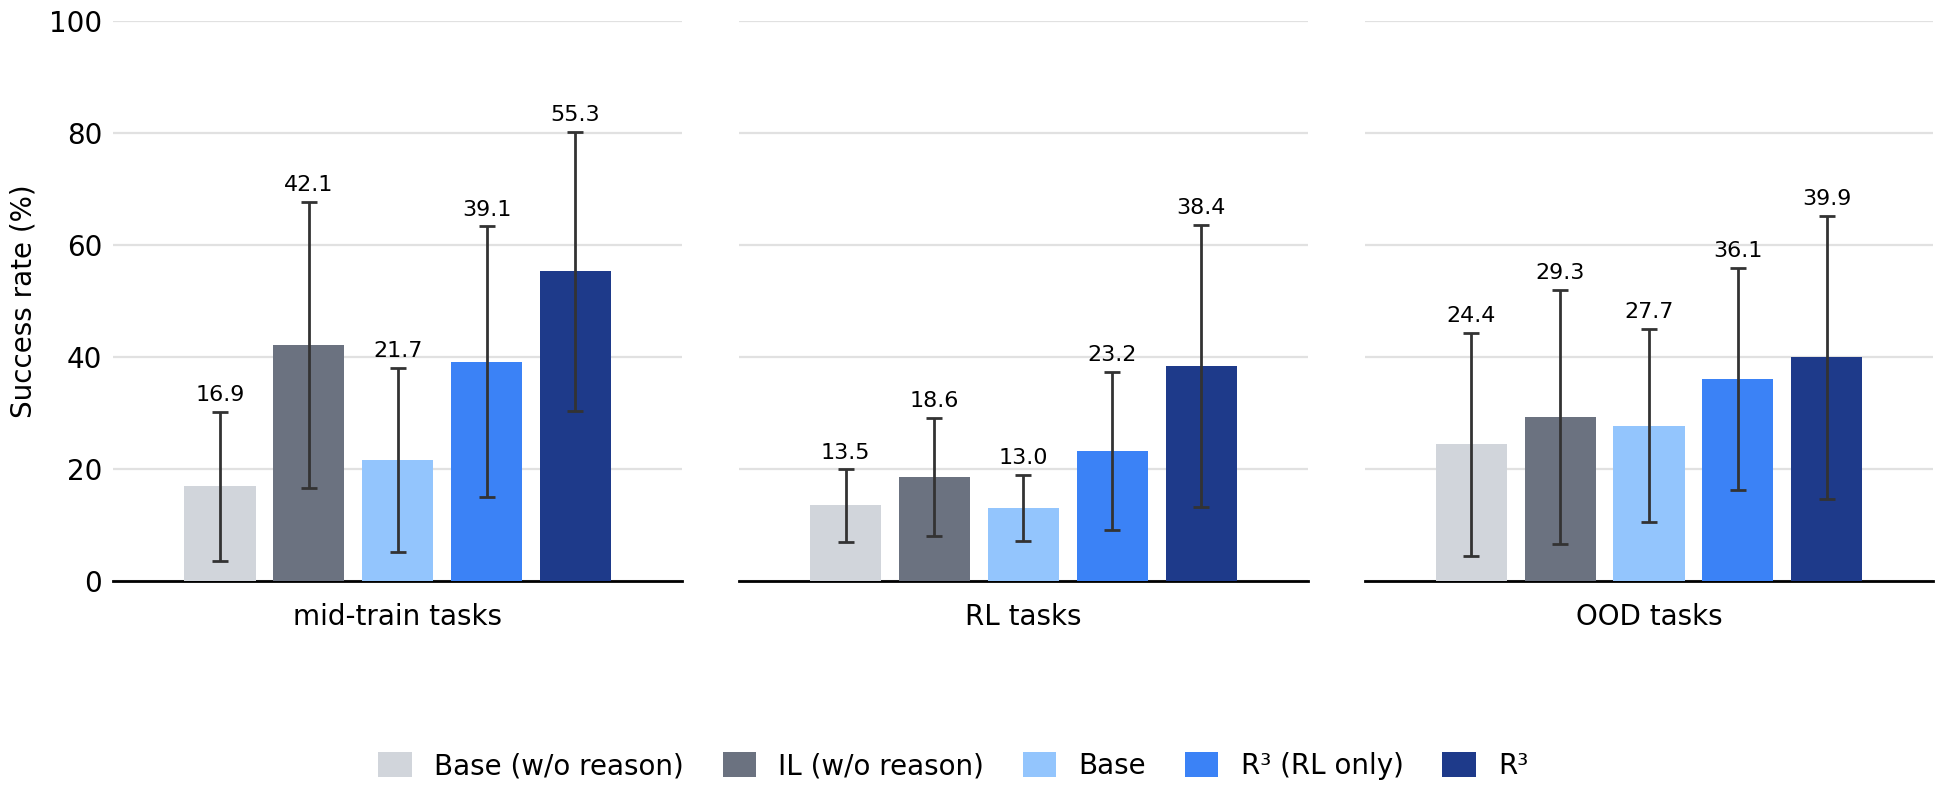
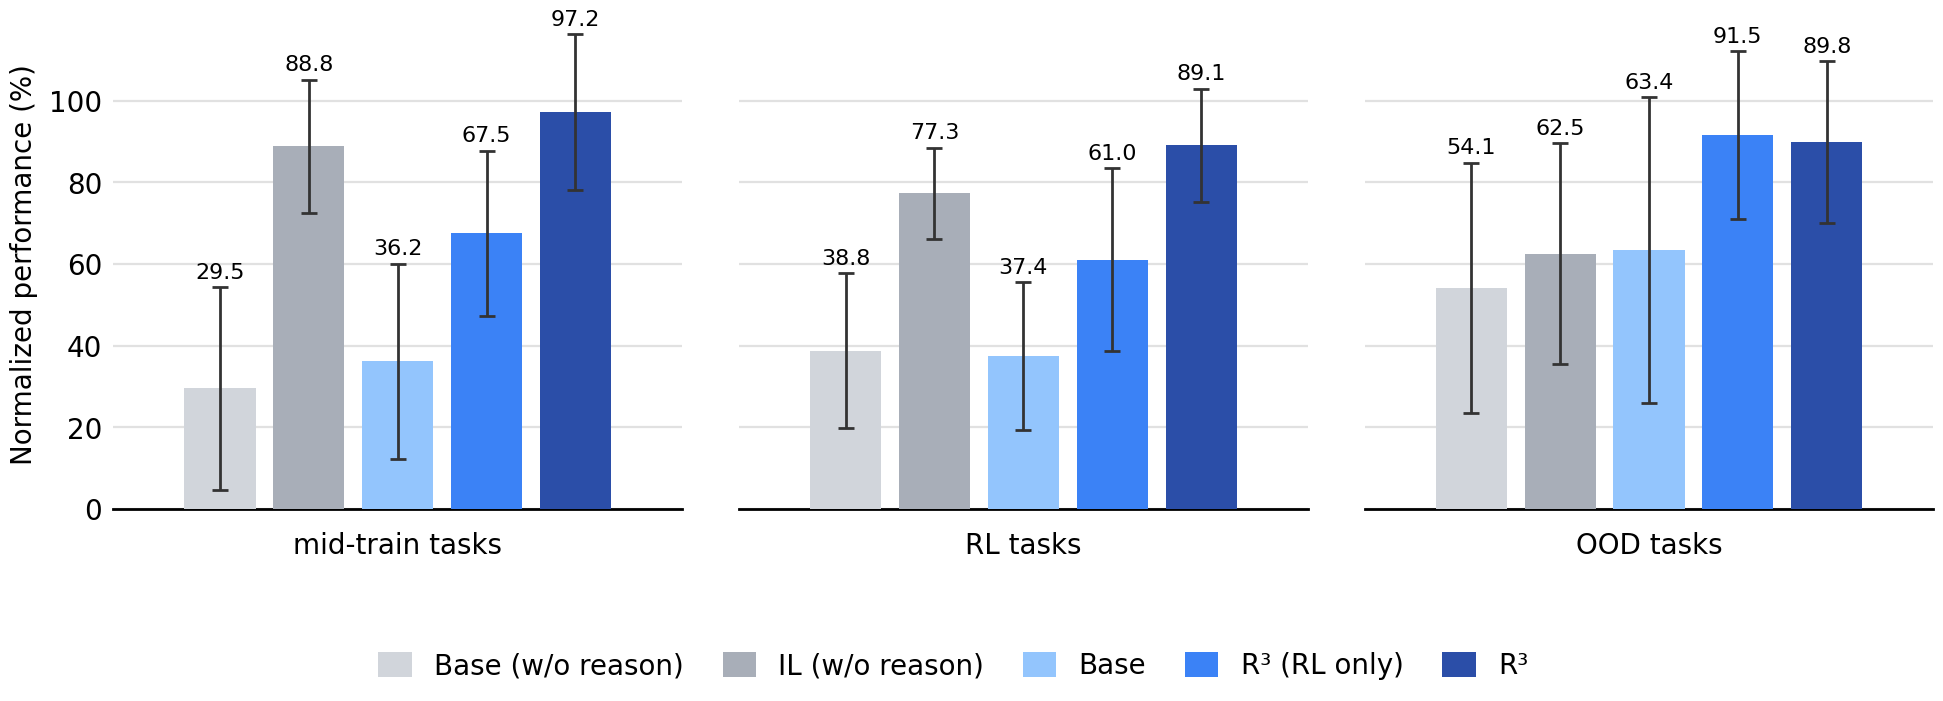
Show pretrain/cotrain and ECoT bar charts on page; keep tables in toggles.

diff --git a/index.html b/index.html
@@ -333,15 +333,38 @@
                 <ul class="takeaways">
                   <li><b>Evidence B:</b> R³ outperforms non-reasoning policies that use reasoning as training-time supervision, especially on OOD tasks.</li>
                 </ul>
-                <figure class="paper-figure" style="--fig-width: 55%;">
-                  <img src="./static/images/pretrain_cotrain_results_table.png" alt="Imitation with pre-training and co-training on reasoning">
+                <figure class="paper-figure" style="--fig-width: 100%;">
+                  <img src="./static/images/pretrain_cotrain_results_bar_chart.png" alt="IL with pre-training or co-training on reasoning: average success rates">
                   <figcaption>
                     <b>IL with pre-training or co-training on reasoning.</b>
-                    Values are percentages. Parenthetical values for IL (Pre-train) and IL (Co-train) indicate absolute changes relative to IL.
-                    Note that reasoning data for pre-training or co-training include mid-training tasks, while non-reasoning data include mid-training and RL-only tasks.
-                    R³ consistently outperforms all imitation learning variants, suggesting that the benefit of reasoning cannot be fully captured by pre-training or co-training alone.
+                    R³ outperforms non-reasoning imitation variants that use reasoning only as training-time supervision, especially on OOD tasks. For detailed per-task numbers, see the table below.
                   </figcaption>
                 </figure>
+                <div class="expandable-container">
+                  <button id="pretrainCotrainResultsTableToggle" type="button" class="expandable-toggle button is-small is-outlined" data-expanded-label="Hide detailed table" onclick="togglePretrainCotrainResultsTable()">
+                    <span class="pretrain-cotrain-results-table-toggle-text">View detailed per-task numbers</span>
+                    <span class="icon"><i class="fas fa-chevron-down pretrain-cotrain-results-table-toggle-icon"></i></span>
+                  </button>
+                  <div class="expandable-panel" id="pretrainCotrainResultsTablePanel">
+                    <div class="expandable-content">
+                      <figure class="paper-figure" style="--fig-width: 100%;">
+                        <img src="./static/images/pretrain_cotrain_results_table.png" alt="Imitation with pre-training and co-training on reasoning">
+                        <figcaption>
+                          <b>IL with pre-training or co-training on reasoning.</b>
+                          Values are percentages. Parenthetical values for IL (Pre-train) and IL (Co-train) indicate absolute changes relative to IL.
+                          Note that reasoning data for pre-training or co-training include mid-training tasks, while non-reasoning data include mid-training and RL-only tasks.
+                          R³ consistently outperforms all imitation learning variants, suggesting that the benefit of reasoning cannot be fully captured by pre-training or co-training alone.
+                        </figcaption>
+                      </figure>
+                      <div class="expandable-close-container">
+                        <button type="button" class="expandable-close button is-small is-outlined" onclick="togglePretrainCotrainResultsTable()">
+                          <span class="icon"><i class="fas fa-chevron-up"></i></span>
+                          <span>Close</span>
+                        </button>
+                      </div>
+                    </div>
+                  </div>
+                </div>
               </div>
             </div>
 
@@ -390,13 +413,36 @@
                 <p>
                   We adapt ECoT to our hierarchical setting by augmenting the response with explicit simulator-state annotations.
                   Our results show that adding ECoT-style structured state annotations generally <b>does not help over free-form language reasoning</b> in our setting.</p>
-                <figure class="paper-figure" style="--fig-width: 60%;">
-                  <img src="./static/images/ecot_results_table.png" alt="ECoT variants comparison">
+                <figure class="paper-figure" style="--fig-width: 100%;">
+                  <img src="./static/images/ECoT_results_bar_chart.png" alt="ECoT variants: average success rates">
                   <figcaption>
                     <b>Evaluation results of ECoT variants.</b>
-                    Values are percentages. We train all variants by SFT on only our mid-training data. The results suggest that ECoT does not provide additional benefit over our free-form language reasoning.
+                    Adding ECoT-style structured state annotations generally does not help over free-form language reasoning. For detailed per-task numbers, see the table below.
                   </figcaption>
                 </figure>
+                <div class="expandable-container">
+                  <button id="ecotResultsTableToggle" type="button" class="expandable-toggle button is-small is-outlined" data-expanded-label="Hide detailed table" onclick="toggleEcotResultsTable()">
+                    <span class="ecot-results-table-toggle-text">View detailed per-task numbers</span>
+                    <span class="icon"><i class="fas fa-chevron-down ecot-results-table-toggle-icon"></i></span>
+                  </button>
+                  <div class="expandable-panel" id="ecotResultsTablePanel">
+                    <div class="expandable-content">
+                      <figure class="paper-figure" style="--fig-width: 100%;">
+                        <img src="./static/images/ECoT_results_table.png" alt="ECoT variants comparison">
+                        <figcaption>
+                          <b>Evaluation results of ECoT variants.</b>
+                          Values are percentages. We train all variants by SFT on only our mid-training data. The results suggest that ECoT does not provide additional benefit over our free-form language reasoning.
+                        </figcaption>
+                      </figure>
+                      <div class="expandable-close-container">
+                        <button type="button" class="expandable-close button is-small is-outlined" onclick="toggleEcotResultsTable()">
+                          <span class="icon"><i class="fas fa-chevron-up"></i></span>
+                          <span>Close</span>
+                        </button>
+                      </div>
+                    </div>
+                  </div>
+                </div>
               </div>
             </div>
 

diff --git a/static/css/index.css b/static/css/index.css
@@ -428,13 +428,17 @@ body {
 
 .rollout-toggle-icon,
 .main-results-table-toggle-icon,
-.vqa-results-table-toggle-icon {
+.vqa-results-table-toggle-icon,
+.pretrain-cotrain-results-table-toggle-icon,
+.ecot-results-table-toggle-icon {
   transition: transform 0.3s ease;
 }
 
 .expandable-toggle.expanded .rollout-toggle-icon,
 .expandable-toggle.expanded .main-results-table-toggle-icon,
-.expandable-toggle.expanded .vqa-results-table-toggle-icon {
+.expandable-toggle.expanded .vqa-results-table-toggle-icon,
+.expandable-toggle.expanded .pretrain-cotrain-results-table-toggle-icon,
+.expandable-toggle.expanded .ecot-results-table-toggle-icon {
   transform: rotate(180deg);
 }
 

diff --git a/static/js/index.js b/static/js/index.js
@@ -37,6 +37,14 @@ function toggleVqaResultsTable() {
     toggleExpandable('vqaResultsTablePanel', 'vqaResultsTableToggle', '.vqa-results-table-toggle-text');
 }
 
+function togglePretrainCotrainResultsTable() {
+    toggleExpandable('pretrainCotrainResultsTablePanel', 'pretrainCotrainResultsTableToggle', '.pretrain-cotrain-results-table-toggle-text');
+}
+
+function toggleEcotResultsTable() {
+    toggleExpandable('ecotResultsTablePanel', 'ecotResultsTableToggle', '.ecot-results-table-toggle-text');
+}
+
 // =================================
 // NAVIGATION SYSTEM FUNCTIONALITY
 // =================================